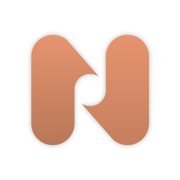
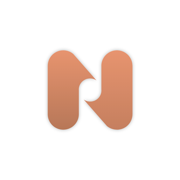
Aggiorna icone app (N al 72% nella squircle) e alza la cache del service worker

Changed region(s): [[0.1667, 0.1667, 0.8333, 0.8333]]

diff --git a/sw.js b/sw.js
@@ -1,7 +1,7 @@
 /* Service worker — Gestionale P.IVA
    Strategia: network-first per index.html (così gli aggiornamenti arrivano subito),
    cache-first per il resto. Permette di aprire l'app anche offline. */
-const CACHE = 'gestionale-piva-v14';
+const CACHE = 'gestionale-piva-v15';
 const ASSETS = ['.', 'index.html', 'manifest.json', 'icons/icon-192.png', 'icons/icon-512.png', 'icons/apple-touch-icon.png'];
 
 self.addEventListener('install', e => {
